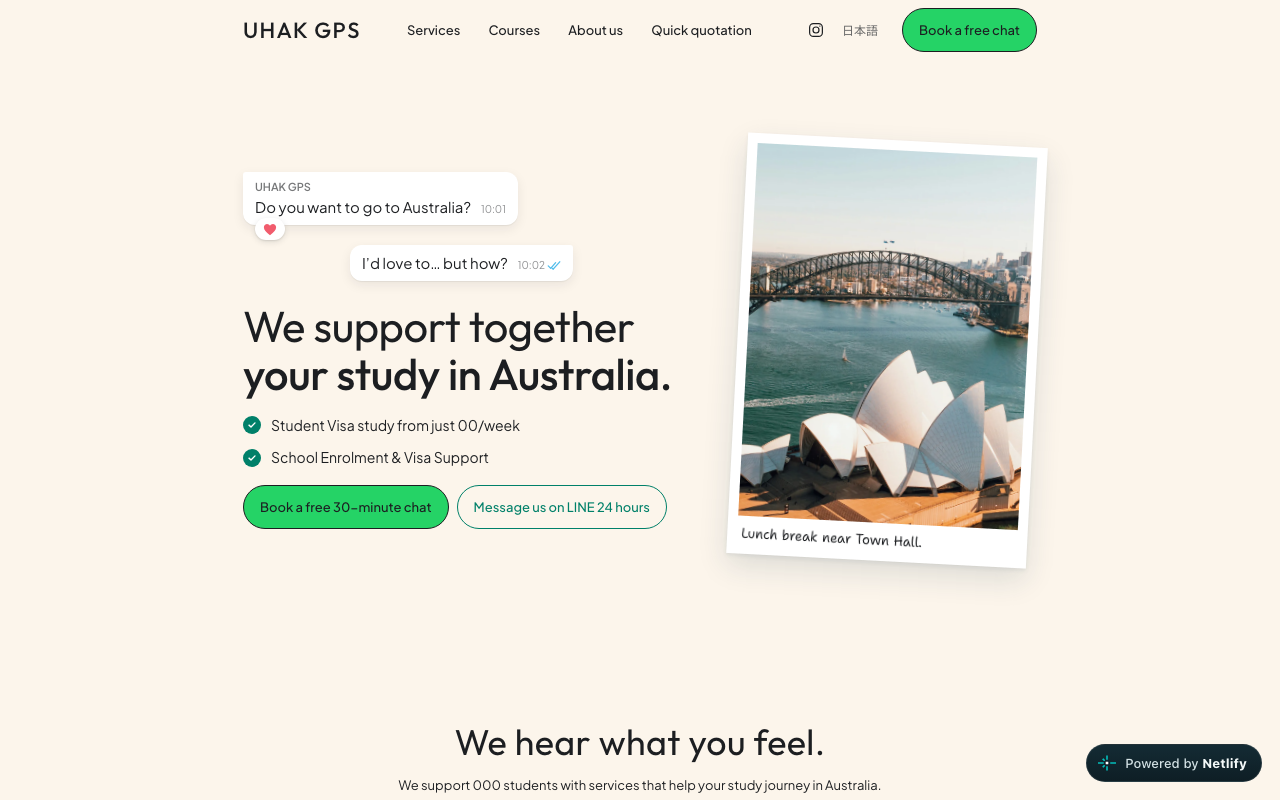
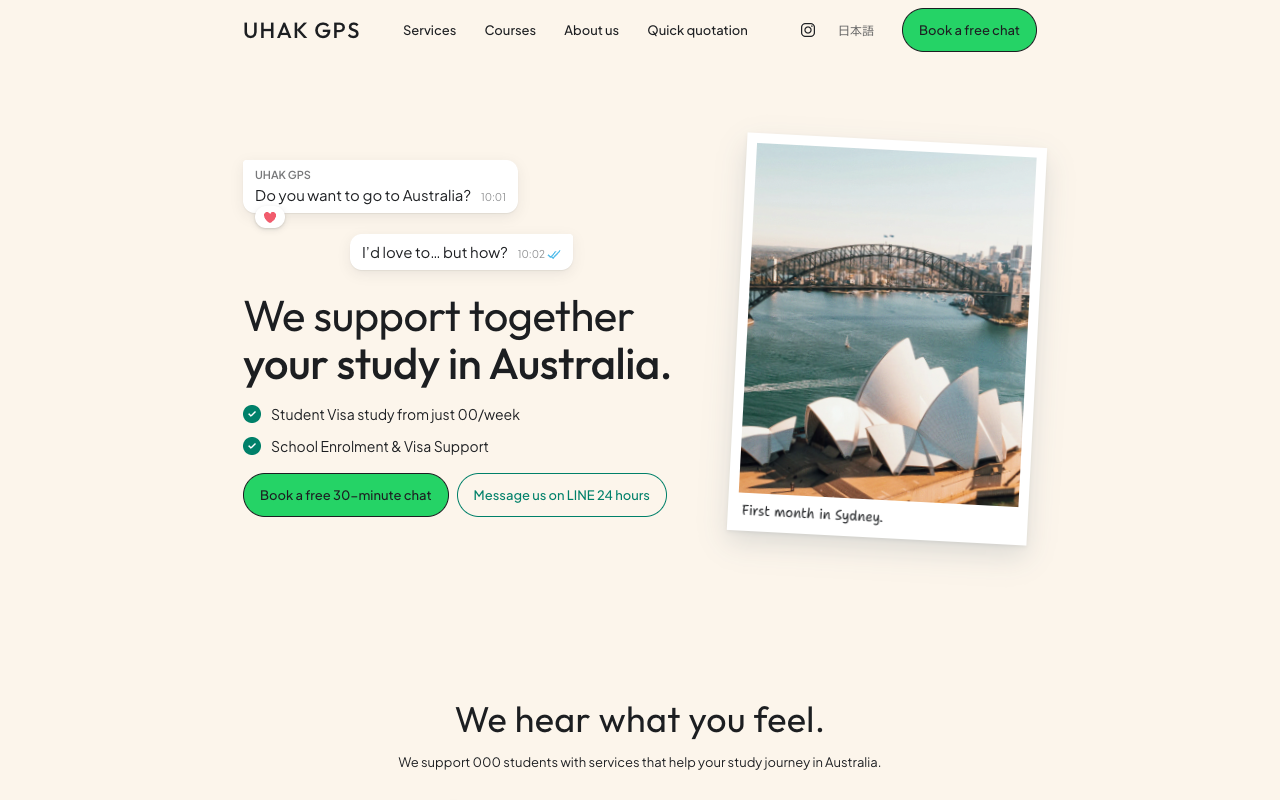
Add landing mobile and booking screenshots to the README.
Also documents the /book/ pages, Netlify Forms setup, and the new src/data and book folders.

diff --git a/README.md b/README.md
@@ -7,15 +7,32 @@ Astro + React landing site for **UHAK GPS** — Sydney-based study abroad & Work
 - English: [https://uhak-gps.netlify.app/](https://uhak-gps.netlify.app/)
 - Japanese: [https://uhak-gps.netlify.app/ja/](https://uhak-gps.netlify.app/ja/)
 
-[![UHAK GPS landing preview](docs/preview.png)](https://uhak-gps.netlify.app/)
+| Desktop | Mobile |
+| --- | --- |
+| [![UHAK GPS landing, desktop](docs/landing/landing-desktop.png)](https://uhak-gps.netlify.app/) | <img src="docs/landing/landing-mobile.png" alt="UHAK GPS landing, mobile" width="260"> |
 
 ## Features
 
 - Static landing with interactive React sections (options picker, how-it-works steps, flip ID card)
 - **EN / JA** i18n — `/` and `/ja/`, soft client-side language switch (fade + `history.pushState`, no full reload)
 - Sticky floating header on scroll, square nav underline, WhatsApp-style hero chat animation
+- **Booking** at `/book/` and `/ja/book/` — Netlify Forms, no backend (see [Booking](#booking))
 - Responsive layout (breakpoint `760px`)
 - Netlify deploy from `main` + GitHub Actions CI (`npm ci` + `npm run build`)
+
+## Booking
+
+Every landing *Book* CTA opens a landing-styled booking page: **`/book/`** (EN) and **`/ja/book/`** (JA).
+
+| Form (desktop) | Sent (mobile) |
+| --- | --- |
+| [![Booking form, desktop](docs/landing/book-desktop.png)](https://uhak-gps.netlify.app/book/) | <img src="docs/landing/book-done-mobile.png" alt="Booking sent state, mobile" width="260"> |
+
+- **Netlify Forms**, form name `book-chat`, with a honeypot spam field. `/zine/book/` posts the same form, so all requests land in one inbox.
+- Labels are localised; stored values stay in English (`src/data/booking.ts`), so submissions look the same from every page.
+- *Your Plan* picks on the landing carry over as `?plan=wh,long` and are pre-checked.
+- After sending, the page echoes the request as a chat bubble and lists the next steps.
+- **Local dev:** under `astro dev` the POST is skipped and treated as sent, so the done state can be checked locally. Real submissions only work on Netlify (Deploy Preview or production).
 
 ## `/zine/` — editorial redesign (work in progress)
 
@@ -61,7 +78,7 @@ docs/design-zine.md        → zine design guidelines
 | Layer | Choice |
 | --- | --- |
 | Framework | Astro 7 (static) + `@astrojs/react` |
-| UI | React islands (`client:only`) |
+| UI | React island (`client:load`, server-rendered HTML) + static Astro for `/book/` |
 | CSS | Tailwind CSS v4 (`@tailwindcss/vite`) + lean `landing.css` |
 | Hosting | Netlify (`netlify.toml`, publish `dist`) |
 | CI | GitHub Actions (`.github/workflows/ci.yml`) |
@@ -71,13 +88,21 @@ docs/design-zine.md        → zine design guidelines
 ```
 src/
   pages/
-    index.astro          → /     (en)
-    ja/index.astro       → /ja/  (ja)
+    index.astro          → /          (en)
+    ja/index.astro       → /ja/       (ja)
+    book.astro           → /book/     (en)
+    ja/book.astro        → /ja/book/  (ja)
   layouts/BaseLayout.astro
   i18n/                  → en.ts / ja.ts / types / getMessages()
+  data/
+    office.ts            → office address + Google Maps URL (landing + zine)
+    booking.ts           → booking form name, fields, stored values
+  scripts/book-form.ts   → shared booking submit logic (landing + zine)
+  components/book/
+    BookPage.astro       → booking page (static, so Netlify detects the form)
   components/landing/
     Landing.tsx          → locale state, soft language switch
-    data.ts              → non-copy structure (icons, note meta, maps URL)
+    data.ts              → non-copy structure (icons, note meta, option ids)
     ui.tsx               → Container, SectionTitle, KeepLines, buttons
     sections/            → Header, Hero, FeelNotes, Options, WhyUs,
                            HowItWorks, Schools, Airmail, About,
@@ -150,13 +175,15 @@ Dev server tip (from `AGENTS.md`): `astro dev --background`, then `astro dev sta
 ## Deploy
 
 - Push to `main` → Netlify build (`npm run build` → `dist`)
+- Pull requests get a Netlify **Deploy Preview** — use it to test real form submissions
 - GitHub Actions CI runs the same build check on push/PR
+- Netlify Forms: **form detection** must be on (Site configuration → Forms); email alerts live under Forms → Form notifications
 
 ## Next steps
 
 Tracked in GitHub Issues — remaining highlights:
 
-- Wire `#line` CTAs (booking is live at `/book/`)
+- Wire `#line` CTAs to the LINE official account
 - Placeholder numbers (`00/week`, `000 students`)
 - StickyBar restore or remove
 - Nav IA cleanup
